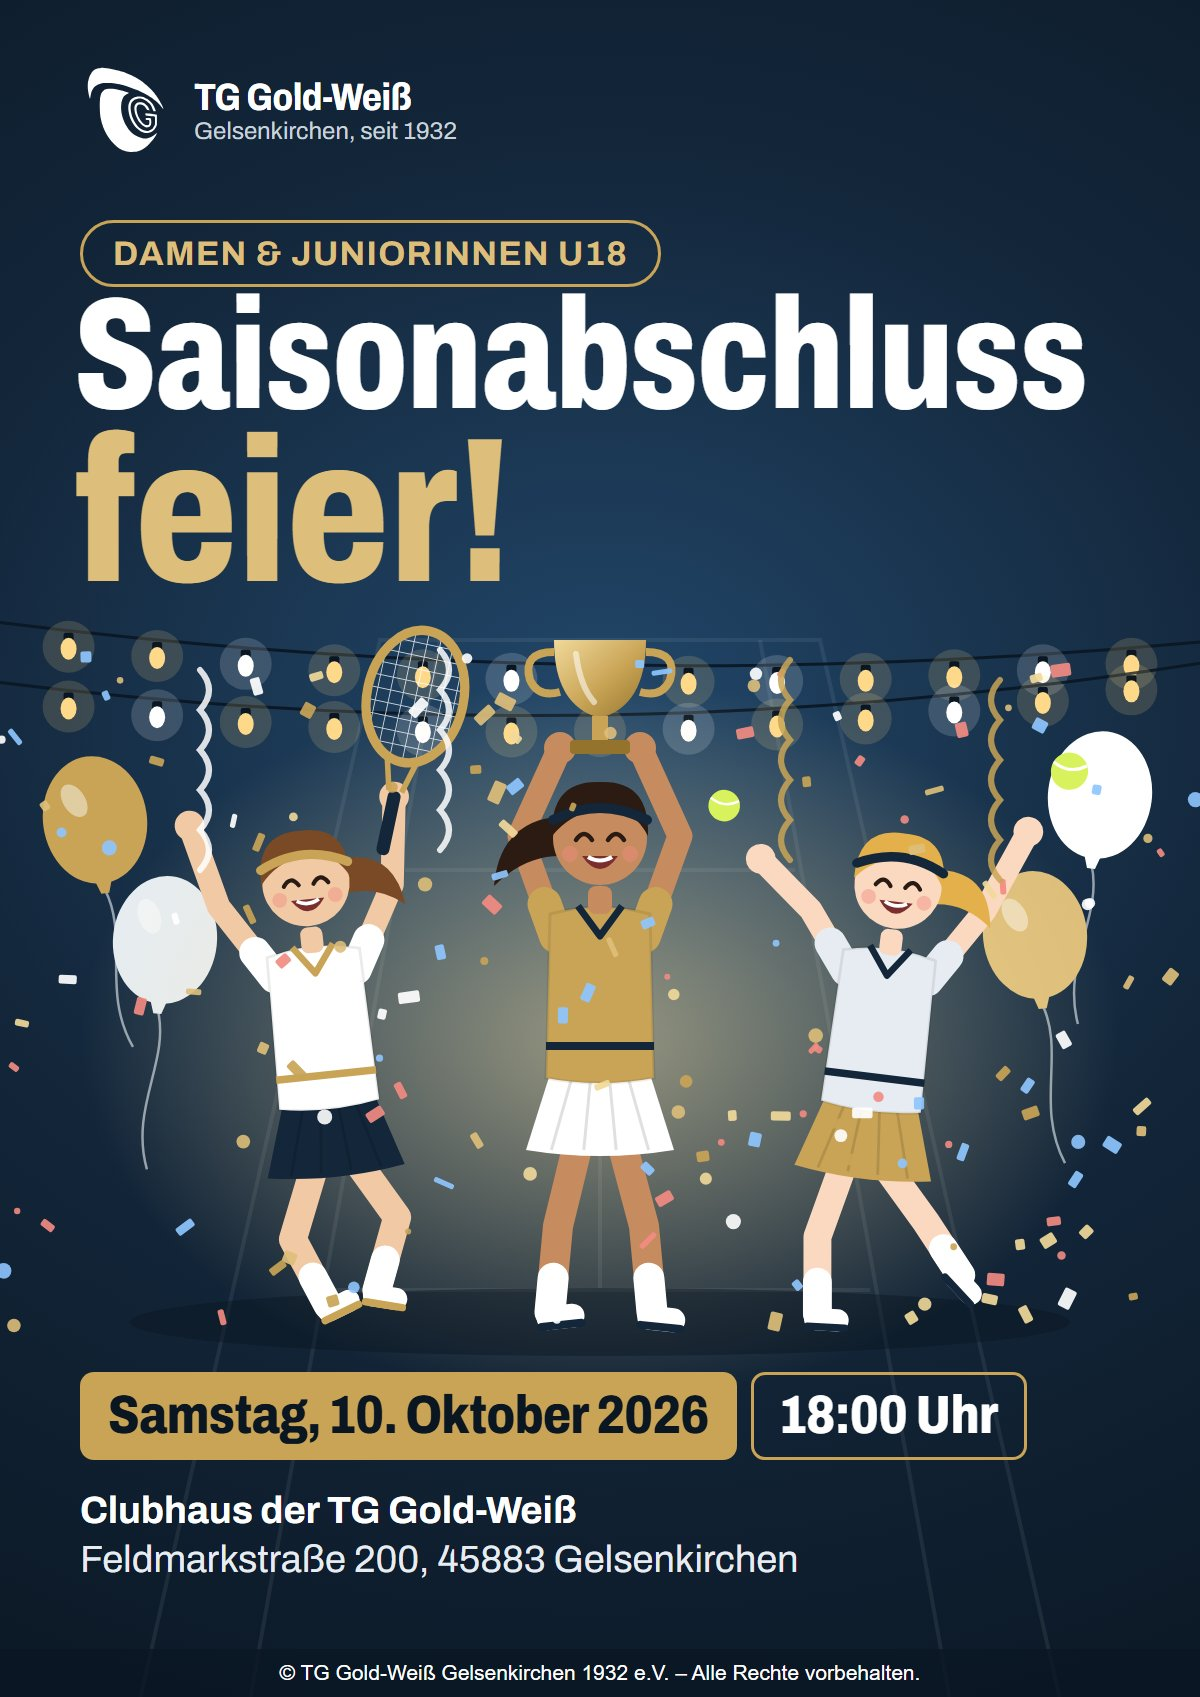
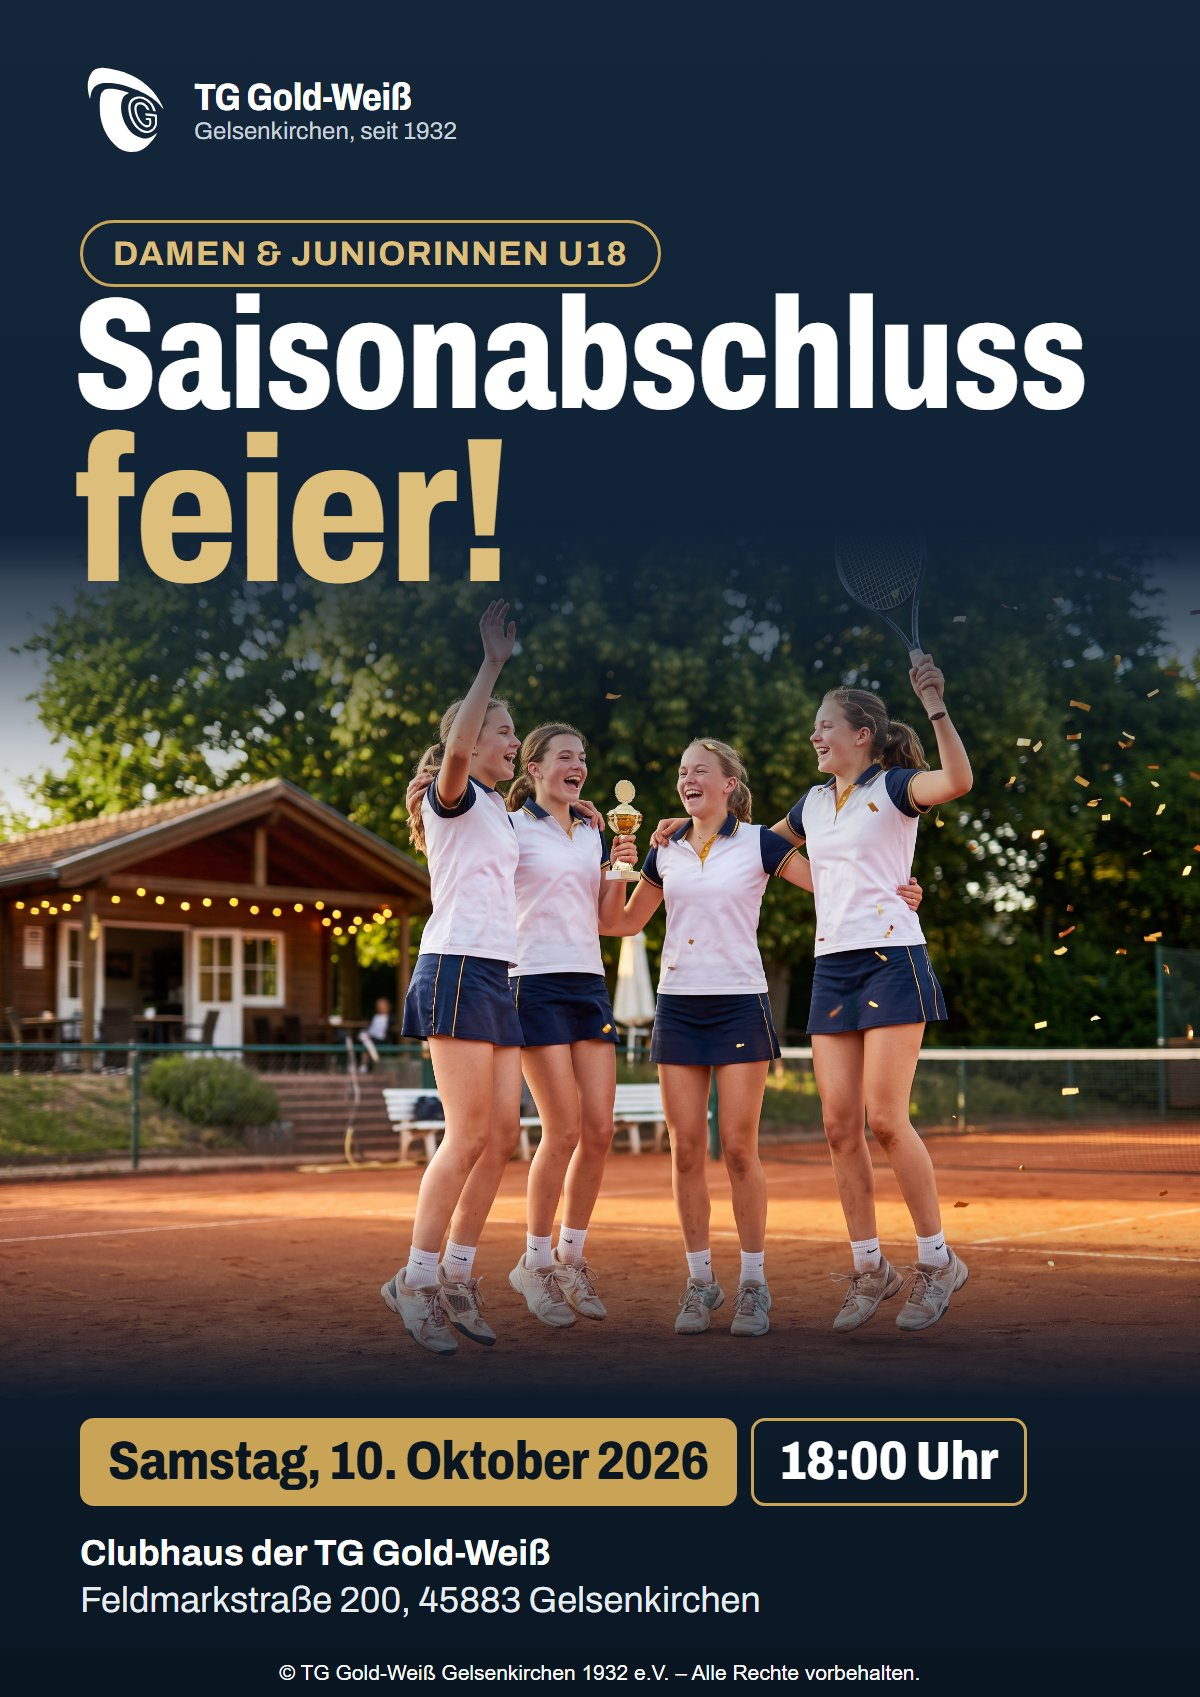
Plakat Saisonabschluss Damen/U18: realistisches Foto statt Illustration

diff --git a/index.html b/index.html
@@ -180,7 +180,7 @@
             </div>
           </article>
           <article class="event ev-poster">
-            <a class="poster" href="img/events/saisonabschluss-damen-u18-gross.jpg" data-lightbox aria-label="Plakat Saisonabschlussfeier Damen und Juniorinnen U18 groß anzeigen"><img src="img/events/saisonabschluss-damen-u18.jpg" alt="Plakat zur Saisonabschlussfeier der Damen und Juniorinnen U18 am 10. Oktober 2026: drei Mädchen in Tenniskleidung jubeln mit Pokal und Schläger" width="360" height="509" loading="lazy"></a>
+            <a class="poster" href="img/events/saisonabschluss-damen-u18-gross.jpg" data-lightbox aria-label="Plakat Saisonabschlussfeier Damen und Juniorinnen U18 groß anzeigen"><img src="img/events/saisonabschluss-damen-u18.jpg" alt="Plakat zur Saisonabschlussfeier der Damen und Juniorinnen U18 am 10. Oktober 2026: vier Juniorinnen in Tenniskleidung jubeln mit Pokal und Schläger auf dem Sandplatz" width="360" height="509" loading="lazy"></a>
             <div>
               <p class="ev-date">Samstag, 10.&nbsp;Oktober&nbsp;2026, 18:00&nbsp;Uhr</p>
               <h3>Saison&shy;abschluss&shy;feier der Damen und Juniorinnen&nbsp;U18</h3>
